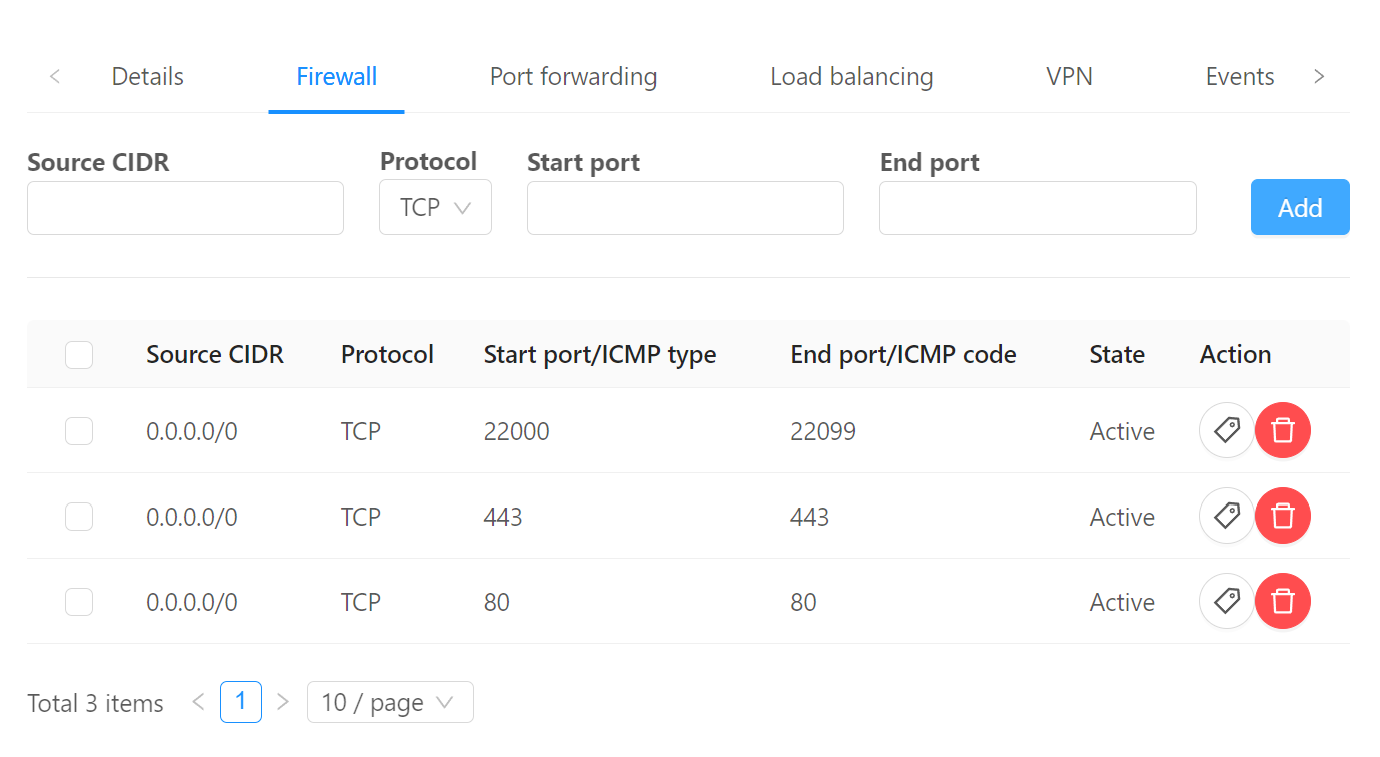
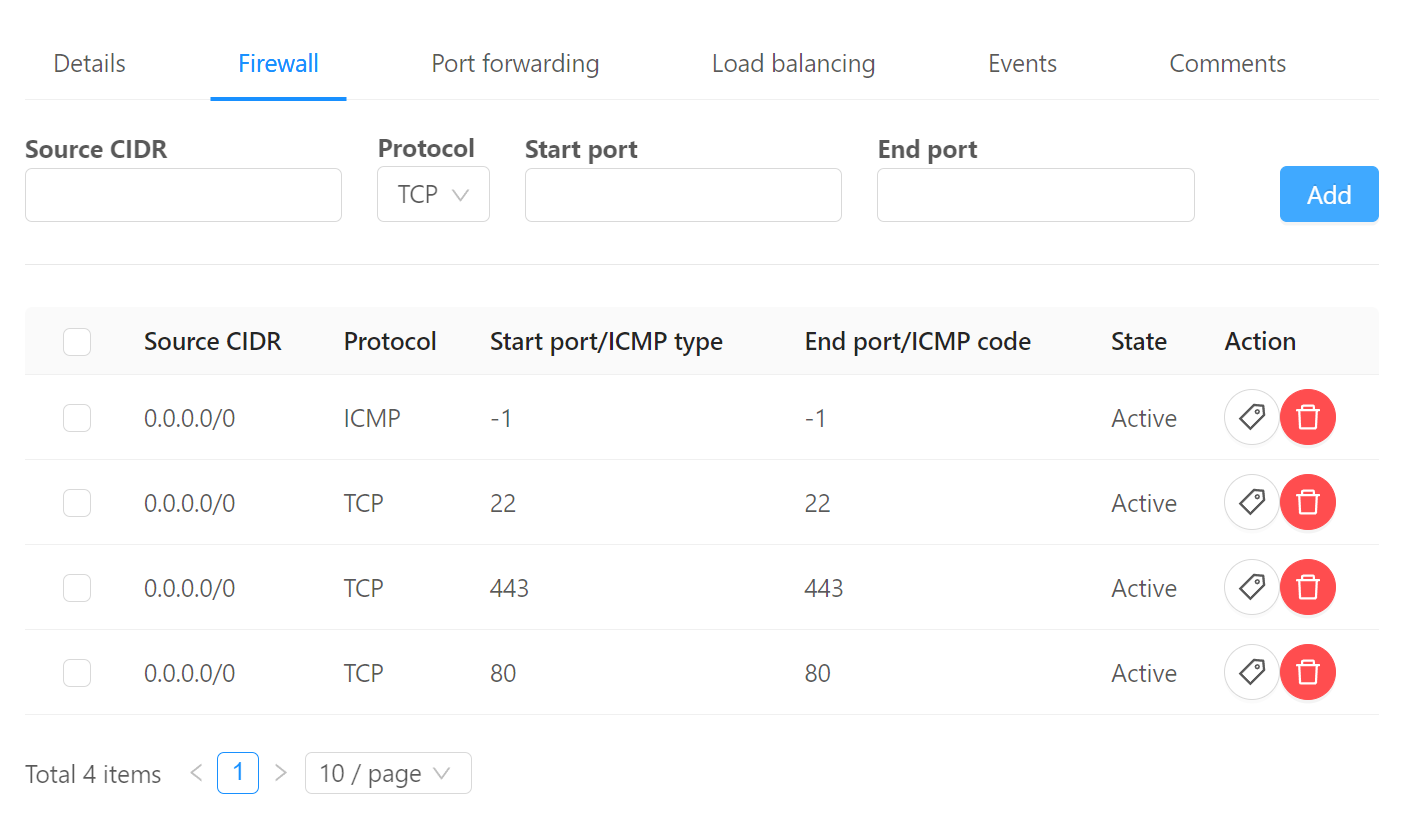
static nat

diff --git a/docs/tutoriais/compute.md b/docs/tutoriais/compute.md
@@ -22,7 +22,7 @@ ssh-keygen
 cat ~/.ssh/id_rsa.pub
 ```
 
-Copie todas as linhas de saída do comando _cat_ e cole no campo __Public key__. Escolhe um nome como _minha-chave_ e clique OK.
+Copie todas as linhas de saída do comando _cat_ e cole no campo __Public key__. Escolha um nome como _minha-chave_ e clique OK.
 
 ![Create SSH key pair](keypair.png)
 
@@ -69,42 +69,53 @@ Para que a instância criada possa se comunicar com o mundo externo, os próximo
 ![Egress rules](egress.png)
 3. Na aba __Public IP addresses__ vemos que já há um primeiro IP associado e marcado como _source-nat_. Isto indica que tráfego originado de dentro da rede para a internet terá este IP como origem.
 ![Public IP addresses](public-ip.png)
-4. Este mesmo IP pode ser usado também para filtrar e direcionar tráfego oruindo da internet. Clique sobre ele.
-5. Iremos para outra página com detalhes sobre o IP escolhido. Clique na aba __Firewall__ e crie 3 regras de firewall:
+4. No menu à esquerda acesse __Networks__, __Guest networks__, _minha-rede_, __Public IP addresses__ e clique __+ Acquire new IP__. Escolha qualquer IP livre.
+![Acquire new IP](acquire-ip.png)
+5. Clique sobre o novo IP escolhido (exemplo: `200.234.208.120`). Clique na aba __Firewall__ e crie as seguintes regras:
     1. __Source CIDR__: _0.0.0.0/0_; __Start port__: _80_; __End port__: _80_ (para aceitar conexões HTTP)
     2. __Source CIDR__: _0.0.0.0/0_; __Start port__: _443_; __End port__: _443_ (para aceitar conexões HTTPS)
-    3. __Source CIDR__: _0.0.0.0/0_; __Start port__: _22000_; __End port__: _22099_ (para aceitar conexões SSH num range de portas).
+    3. __Source CIDR__: _0.0.0.0/0_; __Start port__: _22_; __End port__: _22_ (para aceitar conexões SSH num range de portas).
+    4. __Source CIDR__: _0.0.0.0/0_; __Protocol__: _ICMP_ (para testarmos _ping_).
 
 !!! info
     Poderíamos restringir origens para cada uma dessas portas. Por exemplo, poderíamos permitir origens SSH somente para uma origem específica, como um _jump server_.
 ![Firewall](firewall.png)
 
-### Port forwarding
+### Static NAT
 
-Uma vez configurado qual tráfego permitir, falta direcioná-lo ao destino desejado. Clique sobre a aba __Port forwarding__ e adicione as entradas:
+Uma vez configurado qual tráfego permitir, falta direcioná-lo ao destino desejado. Existem 3 formas diferentes de configurar o tráfego para o endereço IP:
 
-1. __Private port__: _22-22_; __Public port__: _22000-22000_; __Protocol__: _TCP_; botão __Add...__: _web_
-Veja como a entrada acima direciona tráfego recebido na porta _pública_ 22000 para a porta _privada_ 22 na VM.
-1. __Private port__: _80-80_; __Public port__: _80-80_; __Protocol__: _TCP_; botão __Add...__: _web_
-1. __Private port__: _443-443_; __Public port__: _443-443_; __Protocol__: _TCP_; botão __Add...__: _web_
-![Forwarding](forwarding.png)
+- Static NAT
+- Port Forwarding
+- Load Balancing
+
+A forma mais simples e direta de associar um endereço IP a uma instância é via _Static NAT_, onde todo o tráfego recebido no IP é direcionado sempre à mesma instância. É o paradigma que mais se assemelha a um VPS, que tem uma associação 1:1 com um IP público.
+
+Clique sobre o botão `(+)` no canto superior direito da página do IP, onde se lê _Enable static NAT_.
+![Enable Static NAT](enable-static-nat.png)
+
+Em seguida escolha como destino a instância _web_ que criamos.
+![Static NAT](static-nat.png)
 
 ## Conexão
+
+Uma vez que habilitamos _ICMP_ para o IP, podemos testar o _ping_:
+
+```bash
+ping 200.234.208.120 # substitua pelo IP que escolheu acima
+```
 
 Na estação onde tiver a chave privada associada à chave pública que cadastramos:
 
 ```bash
-# Substitua o endereço IP abaixo pelo que foi configurado com port forwarding acima
-ssh root@200.234.208.5 -p 22000
+# Substitua pelo IP que escolheu acima
+ssh root@200.234.208.120
 ```
-
-!!! info
-    Temos que conectar à porta criada para receber conexões via internet, e esta direciona o tráfego para a porta escolhida (22) na VM.
 
 Caso tenha criado uma chave diferente do _default_ `~/.ssh/id_rsa` seguir o exemplo:
 
 ```bash
-ssh root@<IP público> -i ~/.ssh/id_rsa2 -p 22000
+ssh root@200.234.208.120 -i ~/.ssh/id_rsa2
 ```
 Alguns comandos interessantes:
 
